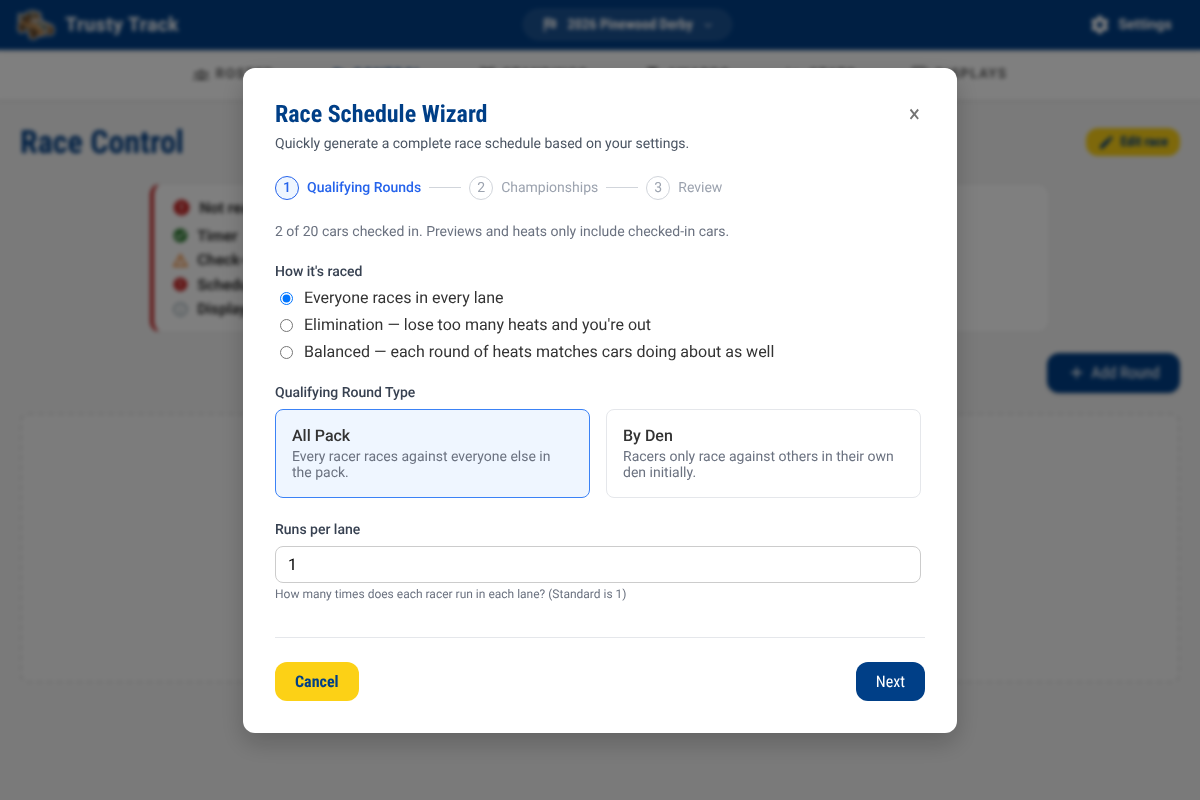
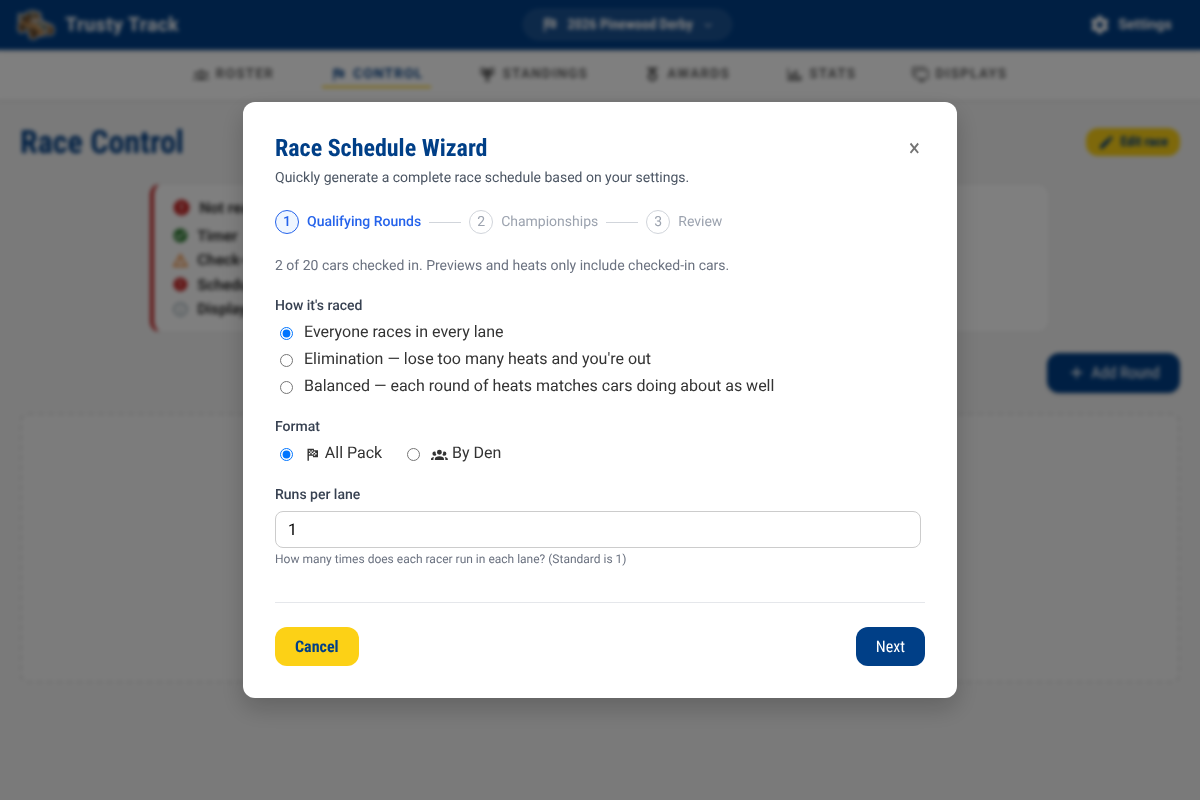
The Round Wizard and Add Round now use one Format control (#1009)
* The Round Wizard and Add Round now use one Format control (#988)

The Round Wizard's step 1 labelled this control "Qualifying Round
Type"; the Add Round dialog labelled the identical All Pack/By Den
choice "Format". "Format" wins: it's the shorter of the two, it's
already the name the wizard's own code comment used for this control,
and "Qualifying Round Type" restated the section heading it sits
under.

Beyond the label, the two dialogs rendered this control with entirely
different markup — the wizard used its own clickable-card style, Add
Round used radio buttons with icons. Extracted both into a shared
FormatFields component, following the HowItsRacedFields/
WhichCarsRaceFields pattern #943 established, so the two cannot drift
apart again.

Fixes #988

* Regenerate 07-round-wizard-step1.png for the shared Format control (#988)

Expected drift from renaming the wizard's label and adopting Add
Round's radio+icon markup for it. Only this image exceeded the drift
gate's threshold (69957px/7.29%); race-day/32-manual-place-entry-modal.png's
7px/0.0025% diff is within it and left untouched.

diff --git a/frontend/src/features/racing/components/RoundWizard.tsx b/frontend/src/features/racing/components/RoundWizard.tsx
@@ -10,6 +10,7 @@ import { useTerminology } from '../../../context/TerminologyContext';
 import { HowItsRacedFields, type RaceStyle } from './HowItsRacedFields';
 import { WhichCarsRaceFields } from './WhichCarsRaceFields';
 import { PickFieldByHandCheckbox } from './PickFieldByHandCheckbox';
+import { FormatFields } from './FormatFields';
 
 interface RoundWizardProps {
   isOpen: boolean;
@@ -101,7 +102,7 @@ export const RoundWizard: React.FC<RoundWizardProps> = ({
   minutesPerHeat = ESTIMATED_HEAT_DURATION_MIN,
   onCreated,
 }) => {
-  const { group, groupLower, groupsLower, org, orgLower, vehicleLower, vehiclesLower } = useTerminology();
+  const { group, groupLower, groupsLower, org, vehicleLower, vehiclesLower } = useTerminology();
   const [step, setStep] = useState(1);
   const [generalConfig, setGeneralConfig] = useState<GeneralConfig>({
     type: 'ALL',
@@ -332,17 +333,6 @@ export const RoundWizard: React.FC<RoundWizardProps> = ({
     boxSizing: 'border-box'
   });
 
-  const configCardStyle = (active: boolean): React.CSSProperties => ({
-    border: '1px solid',
-    borderRadius: '0.5rem',
-    padding: '1rem',
-    cursor: 'pointer',
-    transition: 'background-color 0.2s, border-color 0.2s',
-    borderColor: active ? 'var(--selection-accent-color)' : 'var(--wizard-border-color)',
-    backgroundColor: active ? 'var(--accent-blue-bg-color)' : 'transparent',
-    boxSizing: 'border-box'
-  });
-
   return (
     <Modal isOpen={isOpen} onClose={onClose} title="Race Schedule Wizard" maxWidth="650px">
       <div style={{ display: 'flex', flexDirection: 'column', height: '100%' }}>
@@ -420,25 +410,13 @@ export const RoundWizard: React.FC<RoundWizardProps> = ({
                   by hiding its own Format picker for the other two styles. */}
               {generalConfig.raceStyle === 'PPC' && (
                 <>
-                  <div>
-                    <label style={labelStyle}>Qualifying Round Type</label>
-                    <div style={{ display: 'grid', gridTemplateColumns: '1fr 1fr', gap: '1rem' }}>
-                      <div
-                        style={configCardStyle(generalConfig.type === 'ALL')}
-                        onClick={() => setGeneralConfig({ ...generalConfig, type: 'ALL' })}
-                      >
-                        <div style={{ fontWeight: 500 }}>All {org}</div>
-                        <div style={{ fontSize: '0.875rem', color: 'var(--wizard-text-muted-color)', marginTop: '0.25rem' }}>Every racer races against everyone else in the {orgLower}.</div>
-                      </div>
-                      <div
-                        style={configCardStyle(generalConfig.type === 'EACH_GROUP')}
-                        onClick={() => setGeneralConfig({ ...generalConfig, type: 'EACH_GROUP' })}
-                      >
-                        <div style={{ fontWeight: 500 }}>By {group}</div>
-                        <div style={{ fontSize: '0.875rem', color: 'var(--wizard-text-muted-color)', marginTop: '0.25rem' }}>Racers only race against others in their own {groupLower} initially.</div>
-                      </div>
-                    </div>
-                  </div>
+                  <FormatFields
+                    type={generalConfig.type}
+                    onChooseType={(type) => setGeneralConfig({ ...generalConfig, type })}
+                    racingGroupCount={racingGroupCount}
+                    labelStyle={labelStyle}
+                    mutedColor="var(--wizard-text-muted-color)"
+                  />
 
                   <div>
                     <label style={labelStyle}>Runs per lane</label>

diff --git a/frontend/src/features/racing/components/RoundConfigModal.tsx b/frontend/src/features/racing/components/RoundConfigModal.tsx
@@ -1,11 +1,12 @@
 import React, { useEffect, useRef, useState } from 'react';
 import Modal from '../../../components/ui/Modal';
 import { Icon } from '@mdi/react';
-import { mdiFlagCheckered, mdiAccountGroup, mdiInformation } from '@mdi/js';
+import { mdiInformation } from '@mdi/js';
 import { useTerminology } from '../../../context/TerminologyContext';
 import { HowItsRacedFields, type RaceStyle } from './HowItsRacedFields';
 import { WhichCarsRaceFields } from './WhichCarsRaceFields';
 import { PickFieldByHandCheckbox } from './PickFieldByHandCheckbox';
+import { FormatFields } from './FormatFields';
 
 interface RoundConfigModalProps {
   isOpen: boolean;
@@ -45,7 +46,7 @@ export const RoundConfigModal: React.FC<RoundConfigModalProps> = ({
   hasGeneralRound,
   lastChampionshipRound
 }) => {
-  const { group, groupLower, org, vehiclesLower } = useTerminology();
+  const { group, vehiclesLower } = useTerminology();
   const [type, setType] = useState<'GENERAL' | 'CHAMPIONSHIP'>('GENERAL');
   const [generalType, setGeneralType] = useState<'ALL' | 'EACH_GROUP'>('ALL');
   const [raceStyle, setRaceStyle] = useState<RaceStyle>('PPC');
@@ -261,40 +262,14 @@ export const RoundConfigModal: React.FC<RoundConfigModalProps> = ({
               />
 
               {raceStyle !== 'PPC' ? null : (
-              <div>
-                <label style={labelStyle}>Format</label>
-                <div style={{ display: 'flex', gap: '20px' }}>
-                  <label style={{ display: 'flex', alignItems: 'center', gap: '8px', cursor: 'pointer' }}>
-                    <input
-                      type="radio"
-                      checked={generalType === 'ALL'}
-                      onChange={() => setGeneralType('ALL')}
-                      disabled={loading}
-                    />
-                    <span>
-                      <Icon path={mdiFlagCheckered} size={0.7} style={{ verticalAlign: 'middle', marginRight: '4px' }} />
-                      All {org}
-                    </span>
-                  </label>
-                  <label style={{ display: 'flex', alignItems: 'center', gap: '8px', cursor: 'pointer' }}>
-                    <input
-                      type="radio"
-                      checked={generalType === 'EACH_GROUP'}
-                      onChange={() => setGeneralType('EACH_GROUP')}
-                      disabled={loading}
-                    />
-                    <span>
-                      <Icon path={mdiAccountGroup} size={0.7} style={{ verticalAlign: 'middle', marginRight: '4px' }} />
-                      By {group}
-                    </span>
-                  </label>
-                </div>
-                {generalType === 'EACH_GROUP' && (
-                  <p style={{ margin: '8px 0 0 0', fontSize: '0.8rem', color: 'var(--text-muted-color)', fontStyle: 'italic' }}>
-                    Will create {racingGroupCount} rounds (one per {groupLower}).
-                  </p>
-                )}
-              </div>
+                <FormatFields
+                  type={generalType}
+                  onChooseType={setGeneralType}
+                  racingGroupCount={racingGroupCount}
+                  loading={loading}
+                  labelStyle={labelStyle}
+                  mutedColor="var(--text-muted-color)"
+                />
               )}
             </>
           ) : (

diff --git a/frontend/src/features/racing/components/FormatFields.tsx b/frontend/src/features/racing/components/FormatFields.tsx
@@ -1,0 +1,77 @@
+import React from 'react';
+import { Icon } from '@mdi/react';
+import { mdiFlagCheckered, mdiAccountGroup } from '@mdi/js';
+import { useTerminology } from '../../../context/TerminologyContext';
+
+interface FormatFieldsProps {
+  type: 'ALL' | 'EACH_GROUP';
+  onChooseType: (type: 'ALL' | 'EACH_GROUP') => void;
+  racingGroupCount: number;
+  loading?: boolean;
+  labelStyle: React.CSSProperties;
+  /** Colour for the "Will create N rounds" helper paragraph. Same reasoning
+   * as `HowItsRacedFields.mutedColor` — the two dialogs read different CSS
+   * variables for muted text. */
+  mutedColor: string;
+}
+
+/**
+ * "Format" — whether the qualifying round races everyone together or splits
+ * by racing group (`Round.advancement_source`'s `ALL`/`EACH_GROUP`
+ * vocabulary, reused here for a general round's own `type`). Shared between
+ * the Add Round dialog and the Round Wizard's step 1 (#988) — the wizard
+ * used to render its own clickable-card version of this control under the
+ * label "Qualifying Round Type", which is what let the two drift.
+ *
+ * Only meaningful alongside "Everyone races in every lane": an elimination
+ * or balanced round is always the whole organization, so the caller hides
+ * this fieldset for the other two `HowItsRacedFields` styles rather than
+ * this component doing so itself.
+ */
+export const FormatFields: React.FC<FormatFieldsProps> = ({
+  type,
+  onChooseType,
+  racingGroupCount,
+  loading,
+  labelStyle,
+  mutedColor,
+}) => {
+  const { group, groupLower, org } = useTerminology();
+
+  return (
+    <div>
+      <label style={labelStyle}>Format</label>
+      <div style={{ display: 'flex', gap: '20px' }}>
+        <label style={{ display: 'flex', alignItems: 'center', gap: '8px', cursor: 'pointer' }}>
+          <input
+            type="radio"
+            checked={type === 'ALL'}
+            onChange={() => onChooseType('ALL')}
+            disabled={loading}
+          />
+          <span>
+            <Icon path={mdiFlagCheckered} size={0.7} style={{ verticalAlign: 'middle', marginRight: '4px' }} />
+            All {org}
+          </span>
+        </label>
+        <label style={{ display: 'flex', alignItems: 'center', gap: '8px', cursor: 'pointer' }}>
+          <input
+            type="radio"
+            checked={type === 'EACH_GROUP'}
+            onChange={() => onChooseType('EACH_GROUP')}
+            disabled={loading}
+          />
+          <span>
+            <Icon path={mdiAccountGroup} size={0.7} style={{ verticalAlign: 'middle', marginRight: '4px' }} />
+            By {group}
+          </span>
+        </label>
+      </div>
+      {type === 'EACH_GROUP' && (
+        <p style={{ margin: '8px 0 0 0', fontSize: '0.8rem', color: mutedColor, fontStyle: 'italic' }}>
+          Will create {racingGroupCount} rounds (one per {groupLower}).
+        </p>
+      )}
+    </div>
+  );
+};

diff --git a/frontend/src/features/racing/components/FormatFields.test.tsx b/frontend/src/features/racing/components/FormatFields.test.tsx
@@ -1,0 +1,34 @@
+import { render, screen, fireEvent } from '@testing-library/react';
+import '@testing-library/jest-dom';
+import { describe, it, expect, vi } from 'vitest';
+import { FormatFields } from './FormatFields';
+
+describe('FormatFields', () => {
+  const defaultProps = {
+    type: 'ALL' as const,
+    onChooseType: vi.fn(),
+    racingGroupCount: 3,
+    labelStyle: {},
+    mutedColor: 'var(--text-muted-color)',
+  };
+
+  it('labels the control Format, with All Pack chosen by default', () => {
+    render(<FormatFields {...defaultProps} />);
+    expect(screen.getByText('Format')).toBeInTheDocument();
+    expect(screen.getByLabelText(/All Pack/)).toBeChecked();
+    expect(screen.queryByText(/Will create/)).not.toBeInTheDocument();
+  });
+
+  it('reports the chosen format', () => {
+    const onChooseType = vi.fn();
+    render(<FormatFields {...defaultProps} onChooseType={onChooseType} />);
+    fireEvent.click(screen.getByLabelText(/By Den/));
+    expect(onChooseType).toHaveBeenCalledWith('EACH_GROUP');
+  });
+
+  it('counts the rounds "By Den" is about to create', () => {
+    render(<FormatFields {...defaultProps} type="EACH_GROUP" racingGroupCount={3} />);
+    expect(screen.getByLabelText(/By Den/)).toBeChecked();
+    expect(screen.getByText('Will create 3 rounds (one per den).')).toBeInTheDocument();
+  });
+});
